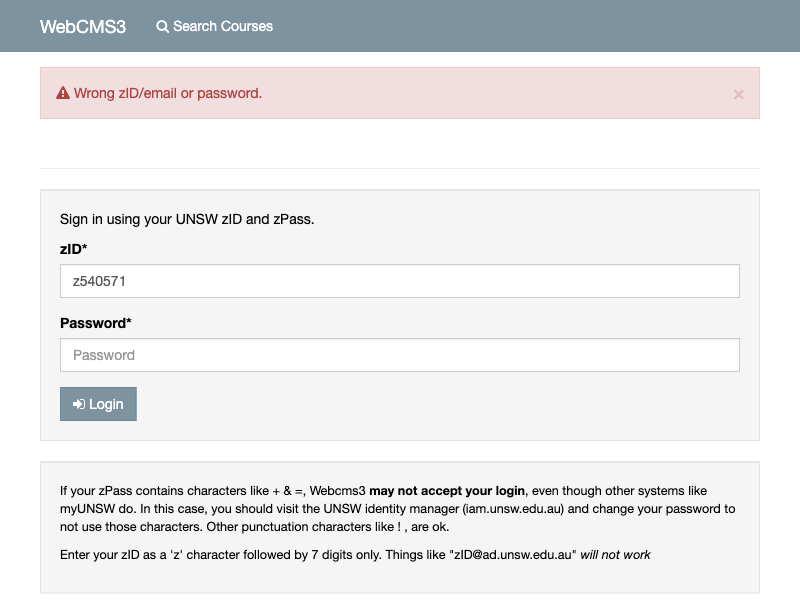
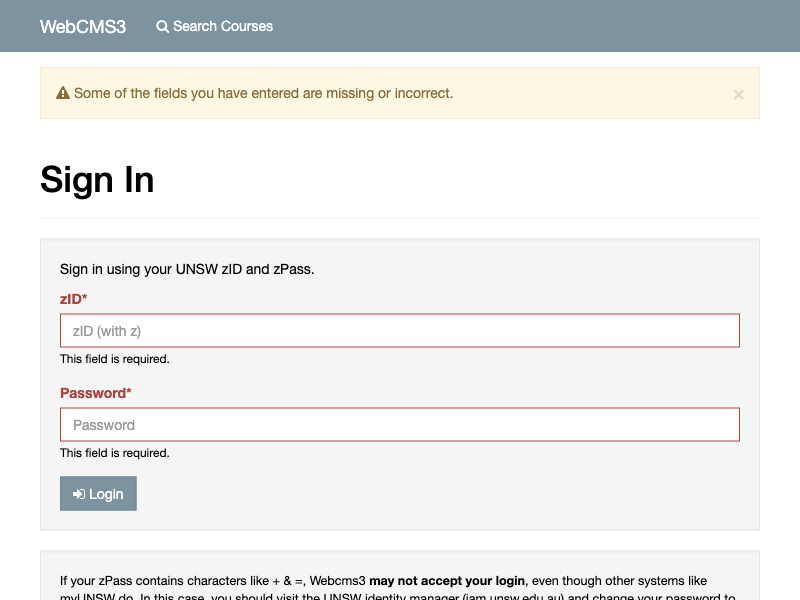
have changed to a function which validated the login authentication

diff --git a/index.js b/index.js
@@ -1,17 +1,26 @@
 const puppeteer = require("puppeteer");
 
 async function start() {
-  const browser = await puppeteer.launch();
-  const page = await browser.newPage();
-  await page.goto("https://webcms3.cse.unsw.edu.au/login");
-  await page.screenshot({ path: "amazing1.png" });
-  await page.type("#zid", "z540571");
-  await page.type("#password", "bond@2003");
-  await page.click(".well button");
-  await page.waitForNavigation();
-  await page.screenshot({ path: "amazing2.png" });
-  console.log(browser.pages());
-  await browser.close();
-}
+  async function login(zid, password) {
+    const browser = await puppeteer.launch();
+    const page = await browser.newPage();
+    await page.goto("https://webcms3.cse.unsw.edu.au/login");
+    await page.screenshot({ path: "amazing1.png" });
+    await page.type("#zid", `${zid}`);
+    await page.type("#password", `${password}`);
+    await page.click(".well button");
+    await page.waitForNavigation();
+    await page.screenshot({ path: "amazing2.png" });
+    const url = await page.url();
+    await browser.close();
+    if (url === "https://webcms3.cse.unsw.edu.au/login") {
+      return false;
+    } else {
+      return true;
+    }
+  }
 
+  const ans = await login("", "");
+  console.log(ans);
+}
 start();
